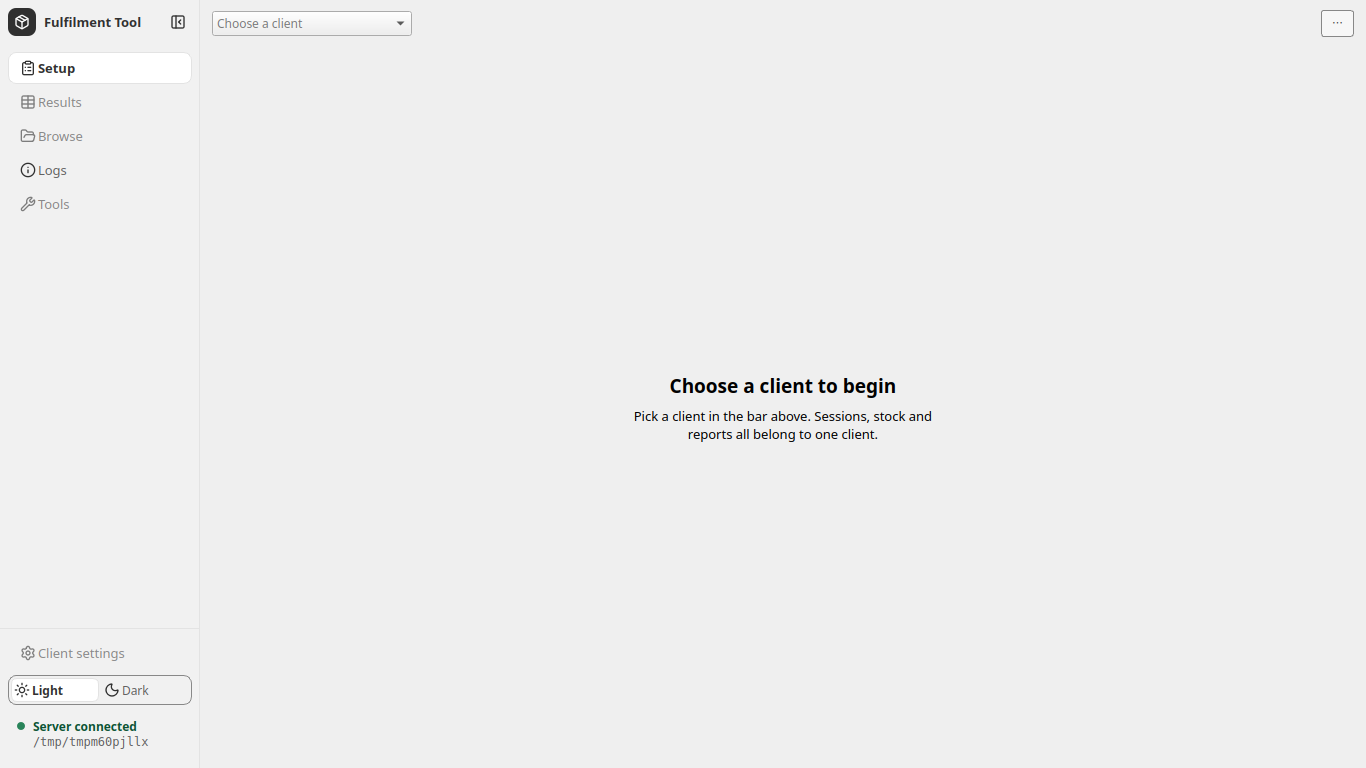
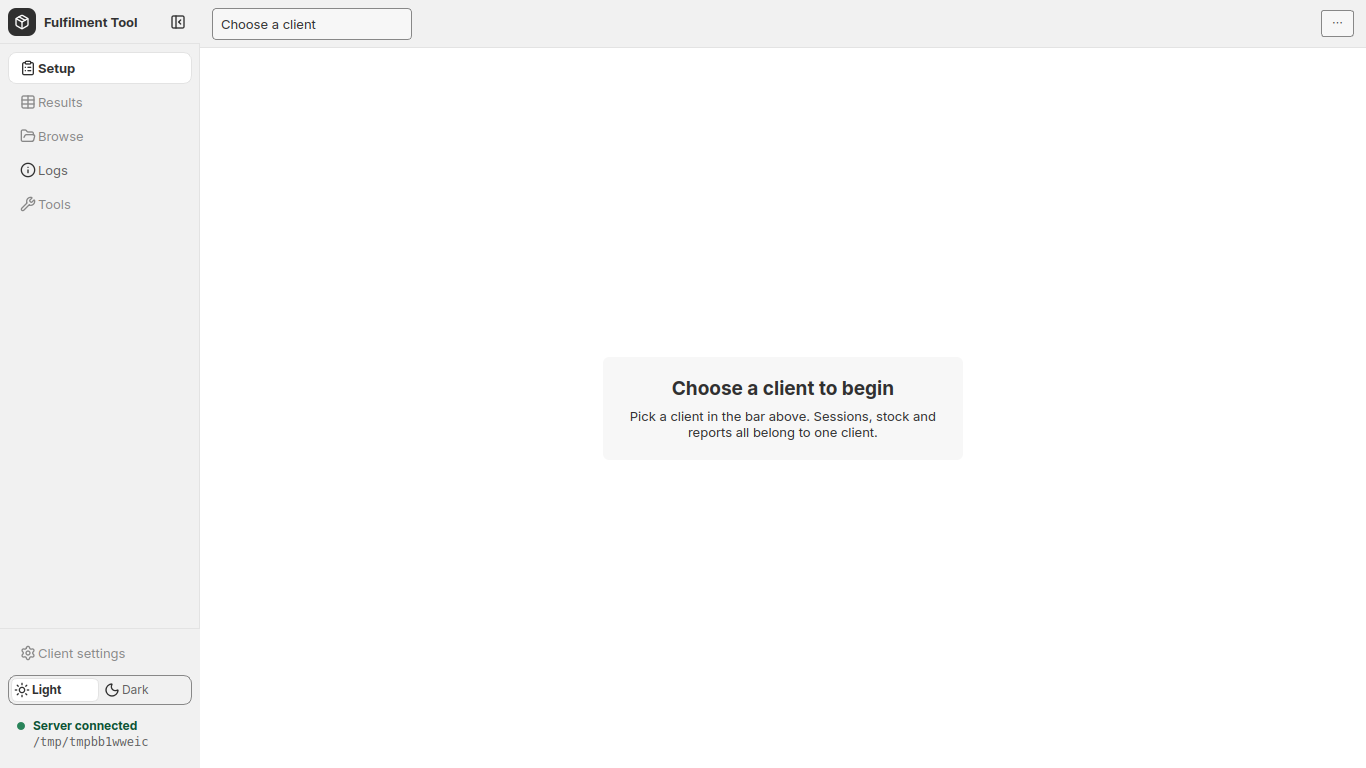
shell: review fixes -- one sunken sidebar plane, a painted command bar, dimmed disabled glyphs
- Sidebar header and footer paint surface_sunken; the app's QWidget rule had
  them on surface, splitting the column into three planes.
- CommandBar opts into WA_StyledBackground, so its sunken fill and bottom
  divider actually paint; the test now checks pixels, not the sheet string.
- icon() adds a Disabled pixmap in text_disabled: Qt's generated one barely
  dims a light glyph on the dark theme, and a collapsed rail has only glyphs.
- conftest clears shell/sidebar_collapsed like the settings nav key, so a
  developer's collapsed sidebar can't fail the shell tests.
- Shortcuts dialog deletes on close; stale accent-fill comment fixed;
  _header_button renamed _icon_button (it builds the footer toggle too).
- Renders retaken with apply_theme(); the plan's render script gains the call.

Claude-Session: https://claude.ai/code/session_01CQjQLP5Qq8Kzrr2iAiUmYi

diff --git a/gui/components/sidebar.py b/gui/components/sidebar.py
@@ -65,8 +65,8 @@ class Sidebar(QWidget):
         self.mark.setAlignment(Qt.AlignCenter)
         self.title = QLabel("Fulfilment Tool", self.header)
         self.title.setMinimumWidth(0)
-        self.collapse_button = self._header_button("Collapse sidebar", 28, 28)
-        self.expand_button = self._header_button("Expand sidebar", 40, 32)
+        self.collapse_button = self._icon_button("Collapse sidebar", 28, 28)
+        self.expand_button = self._icon_button("Expand sidebar", 40, 32)
         self.collapse_button.clicked.connect(lambda: self._toggle(False))
         self.expand_button.clicked.connect(lambda: self._toggle(True))
         header.addWidget(self.mark)
@@ -107,7 +107,7 @@ class Sidebar(QWidget):
             button.clicked.connect(lambda _c=False, n=name: self.themeRequested.emit(n))
         footer.addWidget(self.theme_segment)
 
-        self.theme_toggle = self._header_button("", 40, 32)
+        self.theme_toggle = self._icon_button("", 40, 32)
         self.theme_toggle.clicked.connect(
             lambda: self.themeRequested.emit(
                 "light" if self._theme_name == "dark" else "dark"
@@ -165,7 +165,7 @@ class Sidebar(QWidget):
 
     # -- construction helpers -------------------------------------------------
 
-    def _header_button(self, tip: str, width: int, height: int) -> QToolButton:
+    def _icon_button(self, tip: str, width: int, height: int) -> QToolButton:
         button = QToolButton(self)
         button.setToolTip(tip)
         button.setAutoRaise(True)
@@ -241,6 +241,8 @@ class Sidebar(QWidget):
         self.setStyleSheet(
             f"Sidebar {{ background-color: {t.surface_sunken};"
             f" border-right: 1px solid {t.border_subtle}; }}"
+            # The app sheet's `QWidget` rule would paint these two on `surface`.
+            f"#SidebarHeader, #SidebarFooter {{ background-color: {t.surface_sunken}; }}"
             f"#SidebarHeader {{ border-bottom: 1px solid {t.border_subtle}; }}"
             f"#SidebarFooter {{ border-top: 1px solid {t.border_subtle}; }}"
             f"#SidebarMark {{ background-color: {t.accent_fill}; border-radius: 8px; }}"

diff --git a/shared/icons.py b/shared/icons.py
@@ -55,11 +55,19 @@ def _pixmap(source: str, size: int, height: int | None = None) -> QPixmap:
 
 
 @cache
-def _render(name: str, color: str, sizes: tuple[int, ...]) -> QIcon:
+def _render(
+    name: str, color: str, sizes: tuple[int, ...], disabled: str | None = None
+) -> QIcon:
     source = _source(name).replace("currentColor", color)
     result = QIcon()
     for size in sizes:
         result.addPixmap(_pixmap(source, size))
+    # Qt's generated disabled pixmap barely dims a light glyph on the dark
+    # theme, and on a collapsed rail the glyph is the only signal.
+    if disabled is not None:
+        faded = _source(name).replace("currentColor", disabled)
+        for size in sizes:
+            result.addPixmap(_pixmap(faded, size), QIcon.Disabled)
     return result
 
 
@@ -83,9 +91,11 @@ def icon(
     the colour is part of the key, so it simply misses into a second set of
     entries, and two themes times fifteen glyphs is the ceiling.
     """
+    disabled = None
     if color is None:
-        color = current_tokens().text
-    return _render(name, color, sizes)
+        tokens = current_tokens()
+        color, disabled = tokens.text, tokens.text_disabled
+    return _render(name, color, sizes, disabled)
 
 
 def glyph_url(name: str, color: str | None = None, size: int = 18, height: int | None = None) -> str:

diff --git a/tests/test_icons.py b/tests/test_icons.py
@@ -18,8 +18,8 @@ def qapp():
     return QApplication.instance() or QApplication([])
 
 
-def _opaque_colors(qicon: QIcon, size: int = 32) -> set[str]:
-    image = qicon.pixmap(size, size).toImage()
+def _opaque_colors(qicon: QIcon, size: int = 32, mode=QIcon.Normal) -> set[str]:
+    image = qicon.pixmap(size, size, mode).toImage()
     # Fully-covered pixels only. Qt's antialiased edges are premultiplied, and
     # unpremultiplying drifts each RGB channel by +/-1 -- invisible for colours
     # whose channels are all 0 or 255, but the light theme's #1A1A1A is not one
@@ -62,6 +62,19 @@ def test_color_follows_a_theme_toggle():
         manager.set_theme("dark")
         dark = _opaque_colors(icon("wrench"))
         assert light != dark
+    finally:
+        manager.set_theme(original)
+
+
+def test_a_disabled_icon_paints_in_the_disabled_text_colour():
+    """Qt's own disabled pixmap barely dims a light glyph on the dark theme."""
+    manager = get_theme_manager()
+    original = manager.get_current_theme_name()
+    try:
+        for name in ("light", "dark"):
+            manager.set_theme(name)
+            expected = manager.get_current_theme().text_disabled.lower()
+            assert _opaque_colors(icon("settings"), mode=QIcon.Disabled) == {expected}
     finally:
         manager.set_theme(original)
 

diff --git a/tests/conftest.py b/tests/conftest.py
@@ -21,6 +21,7 @@ from PySide6.QtCore import QEvent, QSettings
 from PySide6.QtWidgets import QApplication, QMessageBox
 
 from gui.settings.window import SettingsWindow
+from gui.ui_manager import _COLLAPSED_KEY
 
 # Chromium's sandbox needs unprivileged user namespaces, which the CI runner's
 # AppArmor profile refuses. Test-only: the app never sets this.
@@ -324,9 +325,12 @@ def clean_nav_setting():
     any test that builds a SettingsWindow would otherwise leave the developer's
     (and CI's) last-page setting behind and leak it into the next run."""
     store = QSettings("ShopifyFulfillmentTool", "FulfillmentApp")
-    store.remove(SettingsWindow.NAV_SETTINGS_KEY)
+    keys = (SettingsWindow.NAV_SETTINGS_KEY, _COLLAPSED_KEY)
+    for key in keys:
+        store.remove(key)
     yield
-    store.remove(SettingsWindow.NAV_SETTINGS_KEY)
+    for key in keys:
+        store.remove(key)
 
 
 @pytest.fixture(autouse=True)

diff --git a/tests/test_shell.py b/tests/test_shell.py
@@ -220,7 +220,12 @@ def test_the_sidebar_asks_for_client_settings(main_window):
 def test_the_command_bar_sits_on_the_sunken_plane(main_window):
     from shared.theme import current_tokens
 
-    assert current_tokens().surface_sunken in main_window.command_bar.styleSheet()
+    # Painted, not just in the sheet: a QWidget subclass ignores its QSS
+    # background unless it opts in with WA_StyledBackground.
+    image = main_window.command_bar.grab().toImage()
+    assert image.pixelColor(2, 2).name() == current_tokens().surface_sunken.lower()
+    edge = image.pixelColor(2, image.height() - 1).name()
+    assert edge == current_tokens().border_subtle.lower()
     assert main_window.command_bar.client_selector.placeholderText() == "Choose a client"
 
 

diff --git a/gui/shortcuts_dialog.py b/gui/shortcuts_dialog.py
@@ -4,6 +4,7 @@ SHORTCUTS is hand-kept; tests/test_shortcuts_dialog.py fails when a row names a
 key the main window no longer binds.
 """
 
+from PySide6.QtCore import Qt
 from PySide6.QtWidgets import (
     QDialog,
     QDialogButtonBox,
@@ -26,6 +27,8 @@ class ShortcutsDialog(QDialog):
     def __init__(self, parent=None) -> None:
         super().__init__(parent)
         self.setWindowTitle("Keyboard shortcuts")
+        # Opened from the overflow menu each time; don't keep one per open.
+        self.setAttribute(Qt.WA_DeleteOnClose)
         layout = QVBoxLayout(self)
         form = QFormLayout()
         mono = current_tokens().font_family_mono

diff --git a/gui/components/commandbar.py b/gui/components/commandbar.py
@@ -123,6 +123,8 @@ class CommandBar(QWidget):
     def __init__(self, parent=None) -> None:
         super().__init__(parent)
         theme = get_theme_manager().get_current_theme()
+        # A QWidget subclass paints no QSS background without this.
+        self.setAttribute(Qt.WA_StyledBackground, True)
         self._apply_theme()
         # A widget sheet outranks the app's, so baking the colours in once
         # would leave a light bar over dark pages after a theme toggle.

diff --git a/shared/theme.py b/shared/theme.py
@@ -82,8 +82,7 @@ class ThemeTokens:
     control_disabled_bg: str
 
     # --- Solid accent fill; on_accent is the text that sits on it (spec 3.4a) ---
-    # hover and active are theme-independent: a button fill sits on itself,
-    # not on a surface, so it needs no per-theme value (spec 2/C4).
+    # hover and active are per theme: dark fills lighten toward white.
     accent_fill: str
     accent_fill_hover: str
     accent_fill_active: str

diff --git a/docs/superpowers/plans/2026-09-30-ui-refresh-phase1-shell.md b/docs/superpowers/plans/2026-09-30-ui-refresh-phase1-shell.md
@@ -1592,6 +1592,7 @@ win = MainWindow()
 win.resize(1366, 768)
 win.show()
 manager = get_theme_manager()
+manager.apply_theme()  # set_theme() is a no-op on the current theme; without this there is no app sheet
 start = "dark" if manager.is_dark_theme() else "light"
 for theme in ("light", "dark"):
     manager.set_theme(theme)
